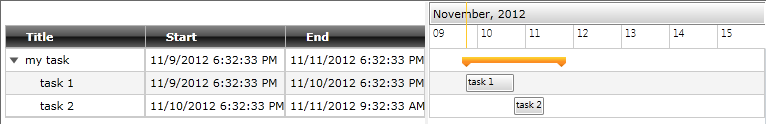
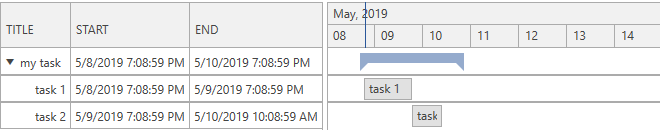
GanttView: Updated Getting Started. Added info about VisibleRange.

diff --git a/controls/radganttview/getting-started.md b/controls/radganttview/getting-started.md
@@ -1,7 +1,7 @@
 ---
 title: Getting Started
 page_title: Getting Started
-description: Getting Started
+description: This article walks you through the creation of a sample application containing RadGanttView.
 slug: radganttview-getting-started
 tags: getting,started
 published: True
@@ -10,26 +10,21 @@ position: 1
 
 # Getting Started
 
-This tutorial will walk you through the creation of a sample application that contains __RadGanttView__ and will show you how to:
+This tutorial will walk you through the creation of a sample application that contains a __RadGanttView__.
 
-* [Add RadGanttView to your project](#add-radganttview-to-your-project)
+## Assembly References
 
-* [Define Columns](#define-columns)
+In order to use the __RadGanttView__ control in your projects, you have to add references to the following assemblies:			
 
-* [Bind the GanttView to a simple Tasks collection](#bind-the-ganttview)
+* __Telerik.Windows.Controls__
+* __Telerik.Windows.Controls.GanttView__
+* __Telerik.Windows.Scheduling.Core__
 
->In order to use the __RadGanttView__ control in your projects you have to add references to the following assemblies:
->	* Telerik.Windows.Controls
->	* Telerik.Windows.Controls.GanttView
->	* Telerik.Windows.Scheduling.Core
+## Adding RadGanttView to your project
 
-## Add RadGanttView to your project
+You can add __RadGanttView__ by writing the XAML code in __Example 1__. You can also add the control by dragging it from the Visual Studio Toolbox and dropping it over the XAML view. 
 
-* Create new {% if site.site_name == 'Silverlight' %}Silverlight{% endif %}{% if site.site_name == 'WPF' %}WPF{% endif %} project.
-
-* Now add a __RadGanttView__ control to the user control. You can add the control by dragging it from the Toolbox and dropping it over the XAML or do it manually by writing the XAML code that is shown below. 
-
-#### __XAML__
+#### __[XAML] Example 1: Defining a RadGanttView__
 
 {{region xaml-radganttview-getting-started_0}}
 	<UserControl xmlns:telerik="http://schemas.telerik.com/2008/xaml/presentation">
@@ -39,17 +34,18 @@ This tutorial will walk you through the creation of a sample application that co
 	</UserControl>
 {{endregion}}
 
-* Now if you run the application you will see an empty GanttView:
+If you run the application now, you will see an empty RadGanttView as demonstrated in __Figure 1__:
 
-![ganttview gettingstarted 010](images/ganttview_gettingstarted_010.png)
+#### __Figure 1: Empty RadGanttView__
+![Empty RadGanttView](images/ganttview_gettingstarted_010.png)
 
 ## Define columns
 
-You should manually define the columns of the data grid in order to show additional details of the task:
+You can manually define columns in order to showcase information from the displayed tasks as demonstrated in __Example 2__.
 
-#### __XAML__
+#### __[XAML] Example 2: Defining columns__
 
-{{region xaml-radganttview-getting-started_3}}
+{{region xaml-radganttview-getting-started_1}}
 	<telerik:RadGanttView x:Name="ganttView2">
 	    <telerik:RadGanttView.Columns>
 	        <telerik:TreeColumnDefinition Header="Title" Width="AutoHeaderAndContent"/>
@@ -61,36 +57,140 @@ You should manually define the columns of the data grid in order to show additio
 
 >Check the [Columns Overview]({%slug radganttview-features-columns-types%}) topic for more information about the columns of the data grid.    
 
-## Bind the GanttView
+## Bind the RadGanttView
 
-* In order to populate your GanttView control with some sample data, first you should create a collection of __GanttTask__ objects: 
+In order to populate a RadGanttView control with sample data, you can create a collection of __GanttTask__ objects as demonstrated in __Example 3__. The example also shows how you can specify a __DateRange__ object in order to bind it to the __VisibleRange__ property of RadGanttView. It will control the range that is visible in the timeline section of the control.  
 
-#### __C#__
+#### __[C#] Example 3: Creating a ViewModel__
 
-{{region cs-radganttview-getting-started_1}}
-	var date = DateTime.Now;
-	
-	var task1 = new GanttTask(date, date.AddDays(1), "task 1");
-	var task2 = new GanttTask(date.AddDays(1), date.AddDays(1).AddHours(15), "task 2");
-	
-	var mainTask = new GanttTask(date, date.AddDays(2), "my task")
-	{
-	    Children = { task1, task2 }
-	};
-	
-	var Tasks = new ObservableCollection<GanttTask>() { mainTask };
+{{region cs-radganttview-getting-started_2}}
+	public class ViewModel : ViewModelBase
+    {
+        private DateRange visibleRange;
+
+        public ViewModel()
+        {
+            var date = DateTime.Now;
+
+            var task1 = new GanttTask(date, date.AddDays(1), "task 1");
+            var task2 = new GanttTask(date.AddDays(1), date.AddDays(1).AddHours(15), "task 2");
+
+            var mainTask = new GanttTask(date, date.AddDays(2), "my task")
+            {
+                Children = { task1, task2 }
+            };
+
+            this.Tasks = new ObservableCollection<GanttTask>() { mainTask };
+
+            this.VisibleRange = new DateRange(date.AddHours(-12), date.AddDays(12));
+        }
+        public ObservableCollection<GanttTask> Tasks { get; set; }
+
+        public DateRange VisibleRange
+        {
+            get
+            {
+                return this.visibleRange;
+            }
+            set
+            {
+                this.visibleRange = value;
+                this.OnPropertyChanged(() => this.VisibleRange);
+            }
+        }
+    }
 {{endregion}}
 
-* Then bind Tasks collection to __TasksSource__ property of the RadGanttView:
+#### __[VB.NET] Example 3: Creating a ViewModel__
 
-#### __XAML__
+{{region vb-radganttview-getting-started_3}}
+	Public Class ViewModel
+		Inherits ViewModelBase
+			Private _visibleRange As DateRange
 
-{{region xaml-radganttview-getting-started_2}}
-	<telerik:RadGanttView x:Name="ganttView1" TasksSource="{Binding Tasks}">
-	    <!--...-->
-	</telerik:RadGanttView>
+			Public Sub New()
+				Dim [date] = Date.Now
+
+				Dim task1 = New GanttTask([date], [date].AddDays(1), "task 1")
+				Dim task2 = New GanttTask([date].AddDays(1), [date].AddDays(1).AddHours(15), "task 2")
+
+				Dim mainTask = New GanttTask([date], [date].AddDays(2), "my task") With {
+					.Children = { task1, task2 }
+				}
+
+				Me.Tasks = New ObservableCollection(Of GanttTask)() From {mainTask}
+
+				Me.VisibleRange = New DateRange([date].AddHours(-12), [date].AddDays(12))
+			End Sub
+			Public Property Tasks() As ObservableCollection(Of GanttTask)
+
+			Public Property VisibleRange() As DateRange
+				Get
+					Return Me._visibleRange
+				End Get
+				Set(ByVal value As DateRange)
+					Me._visibleRange = value
+					Me.OnPropertyChanged(Function() Me.VisibleRange)
+				End Set
+			End Property
+	End Class
 {{endregion}}
 
-Now run your application and see the result:
+#### __[XAML] Example 4: Binding to a TaskSource__
 
-![ganttview gettingstarted 020](images/ganttview_gettingstarted_020.png)
+{{region xaml-radganttview-getting-started_4}}
+	<Grid>
+        <Grid.DataContext>
+            <local:ViewModel />
+        </Grid.DataContext>
+        <telerik:RadGanttView x:Name="ganttView2" TasksSource="{Binding Tasks}" VisibleRange="{Binding VisibleRange}">
+            <telerik:RadGanttView.Columns>
+                <telerik:TreeColumnDefinition Header="Title" Width="AutoHeaderAndContent"/>
+                <telerik:ColumnDefinition MemberBinding="{Binding Start}" Header="Start" Width="AutoHeaderAndContent"/>
+                <telerik:ColumnDefinition MemberBinding="{Binding End}" Header="End" Width="AutoHeaderAndContent"/>
+            </telerik:RadGanttView.Columns>
+        </telerik:RadGanttView>
+    </Grid>
+{{endregion}}
+
+#### __Figure 2: Result from Example 4 in the Office2016 theme__
+
+![RadGanttView populated with data](images/ganttview_gettingstarted_020.png)
+
+## Setting a Theme
+
+The controls from our suite support different themes. You can see how to apply a theme different than the default one in the [Setting a Theme]({%slug styling-apperance-implicit-styles-overview%}) help article.
+
+>important Changing the theme using implicit styles will affect all controls that have styles defined in the merged resource dictionaries. This is applicable only for the controls in the scope in which the resources are merged. 
+
+To change the theme, you can follow the steps below:
+* Choose between the themes and add reference to the corresponding theme assembly (ex: **Telerik.Windows.Themes.Windows8.dll**). You can see the different themes applied in the **Theming** examples from our {% if site.site_name == 'WPF' %}[WPF Controls Examples](https://demos.telerik.com/wpf/){% else %}[Silverlight Controls Examples](https://demos.telerik.com/silverlight/#GridView/Theming){% endif %} application.
+
+* Merge the ResourceDictionaries with the namespace required for the controls that you are using from the theme assembly. For __RadGanttView__, you will need to merge the following resources:
+
+	* __Telerik.Windows.Controls__
+	* __Telerik.Windows.Controls.GanttView__
+
+__Example 5__ demonstrates how to merge the ResourceDictionaries so that they are applied globally for the entire application.
+
+#### __[XAML] Example 5: Merge the ResourceDictionaries__  
+{{region xaml-radganttview-getting-started_5}}
+	<Application.Resources>
+		<ResourceDictionary>
+			<ResourceDictionary.MergedDictionaries>
+				<ResourceDictionary Source="/Telerik.Windows.Themes.Windows8;component/Themes/System.Windows.xaml"/>
+				<ResourceDictionary Source="/Telerik.Windows.Themes.Windows8;component/Themes/Telerik.Windows.Controls.xaml"/>
+				<ResourceDictionary Source="/Telerik.Windows.Themes.Windows8;component/Themes/Telerik.Windows.Controls.GanttView.xaml"/>
+			</ResourceDictionary.MergedDictionaries>
+		</ResourceDictionary>
+	</Application.Resources>
+{{endregion}}
+	
+#### __Figure 3: RadGanttView with the Windows8 theme applied__
+![RadGanttView with Windows8 theme](images/ganttview_gettingstarted_windows8theme.png)
+
+## See Also
+
+* [Events]({%slug radganttview-events-overview%})
+* [Drag&Drop Overview]({%slug radganttview-dragdrop-overview%})
+* [Types of Items]({slug radganttview-features-items-types})
